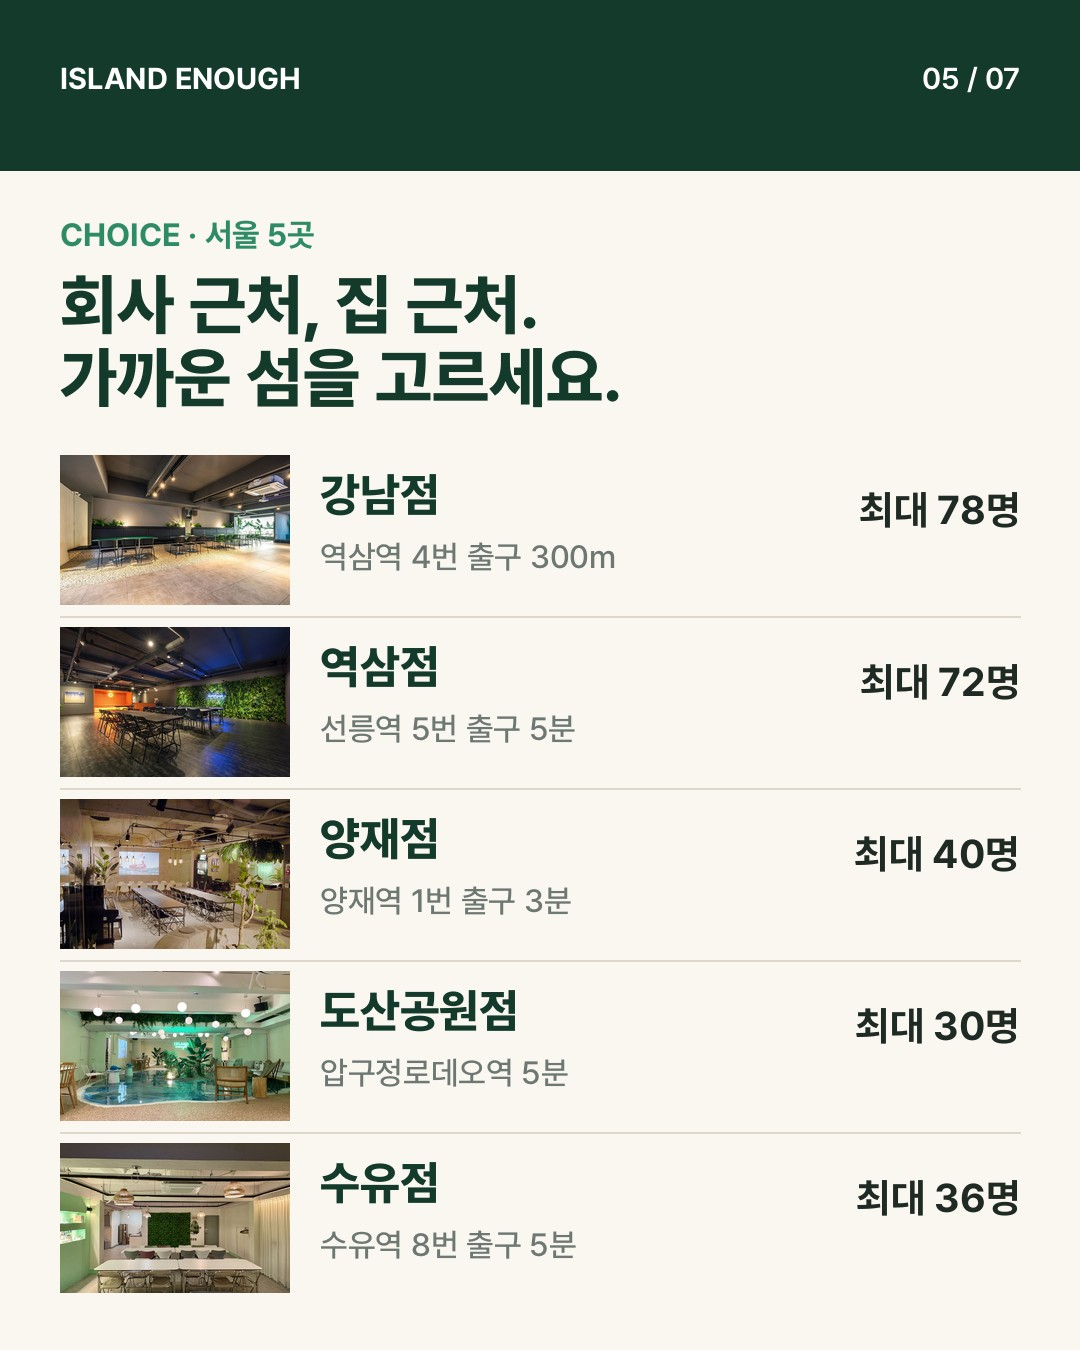
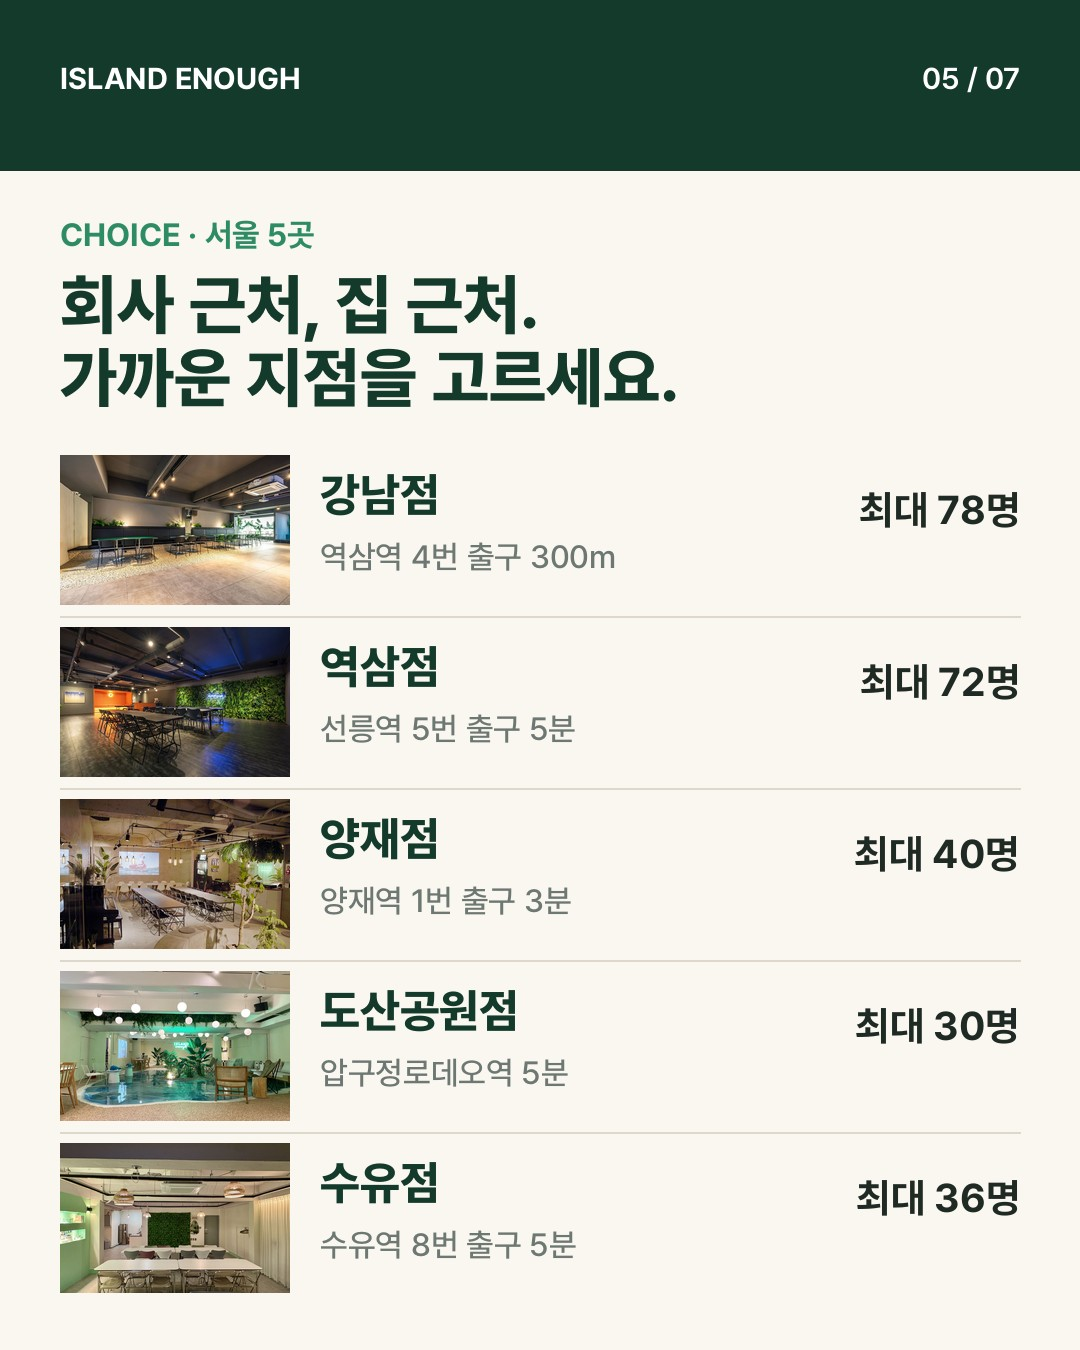
대표 캐러셀 문구 수정 (가까운 지점, 프로필 링크 안내, 잔 준비 문구)
Claude-Session: https://claude.ai/code/session_014iq2M5aXmiv6KNYCo4Y55r

Changed region(s): [[0.2139, 0.2489, 0.6111, 0.3111]]

diff --git a/tools/main_ad.py b/tools/main_ad.py
@@ -89,7 +89,7 @@ def food(i, n, path):
     y = chips(d, 60, y + 85, ['소주', '맥주', '와인', '위스키', '하이볼', '막걸리'], GREEN, GOLD, 32)
     d.text((60, y + 34), '식당 메뉴판 가격 말고, 배달 · 마트 가격 그대로.', font=font('Bold', 34), fill=GREEN)
     d.rounded_rectangle([60, 1190, W - 60, 1290], radius=24, fill=(236, 231, 220))
-    d.text((W // 2, 1222), '맥주잔 · 와인잔 · 오프너 준비 완료 (지점마다 다름)', font=font('Medium', 29), fill=INK, anchor='mm')
+    d.text((W // 2, 1222), '맥주잔 · 와인잔 · 오프너 준비 완료', font=font('Medium', 29), fill=INK, anchor='mm')
     d.text((W // 2, 1262), '얼음은 챙겨 오세요 · 데우기는 전자레인지 (화기 사용 불가)', font=font('Medium', 27), fill=SUB, anchor='mm')
     return im
 
@@ -111,7 +111,7 @@ def branches(i, n, cfg):
     im = Image.new('RGBA', (W, H), CREAM); d = ImageDraw.Draw(im)
     d.rectangle([0, 0, W, 170], fill=GREEN); header(d, i, n)
     d.text((60, 215), 'CHOICE · 서울 5곳', font=font('Bold', 32), fill=(46, 140, 100))
-    d.text((60, 265), '회사 근처, 집 근처.\n가까운 섬을 고르세요.', font=font('ExtraBold', 66), fill=GREEN, spacing=10)
+    d.text((60, 265), '회사 근처, 집 근처.\n가까운 지점을 고르세요.', font=font('ExtraBold', 66), fill=GREEN, spacing=10)
     y = 455
     for bid in ORDER:
         b = next(x for x in BRANCHES if x['id'] == bid); cb = cfg_branch(cfg, bid)
@@ -175,9 +175,10 @@ def cta(i, n):
         d.text((160, y), t, font=font('Bold', 44), fill='white')
         d.text((160, y + 58), s, font=font('Medium', 30), fill=(170, 200, 185))
         y += 140
-    d.rounded_rectangle([60, 1080, W - 60, 1190], radius=55, fill=GOLD)
-    d.text((W // 2, 1135), '날짜 확인하고 예약하기', font=font('ExtraBold', 46), fill=GREEN, anchor='mm')
-    d.text((W // 2, 1250), 'islandenoughpartyroom.com', font=font('Bold', 40), fill='white', anchor='mm')
+    d.rounded_rectangle([60, 1040, W - 60, 1145], radius=52, fill=GOLD)
+    d.text((W // 2, 1092), '날짜 확인하고 예약하기', font=font('ExtraBold', 46), fill=GREEN, anchor='mm')
+    d.text((W // 2, 1200), '프로필 링크를 누르면 예약 페이지로 바로 연결돼요', font=font('Bold', 34), fill=MINT, anchor='mm')
+    d.text((W // 2, 1262), 'islandenoughpartyroom.com', font=font('Bold', 38), fill='white', anchor='mm')
     return im
 
 
@@ -219,7 +220,7 @@ def build(ctx, which=0):
                  '올해 연말 모임, 날짜만 정하면 됩니다.',
                  '👇 지점별 남은 날짜와 요금은 홈페이지에서 바로 확인하세요.',
                  'islandenoughpartyroom.com (프로필 링크)', '',
-                 '🧊 맥주잔 · 와인잔 · 오프너는 준비돼 있고(지점마다 다름), 얼음은 챙겨 오세요.', '',
+                 '🧊 맥주잔 · 와인잔 · 오프너가 준비돼 있고, 얼음은 챙겨 오세요.', '',
                  f"*장소 대관료 기준이며 음식·주류는 별도입니다. 보증금 {cfg['deposit']:,}원은 이용 후 반환되며, "
                  '금·토요일과 공휴일 전날 등은 요금이 달라요.']
         return lines
